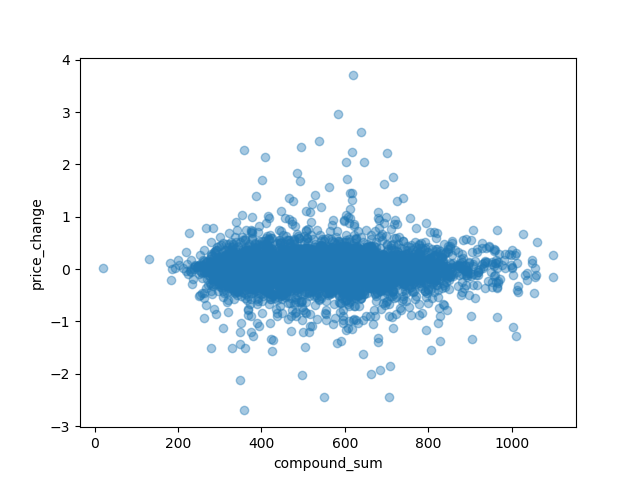
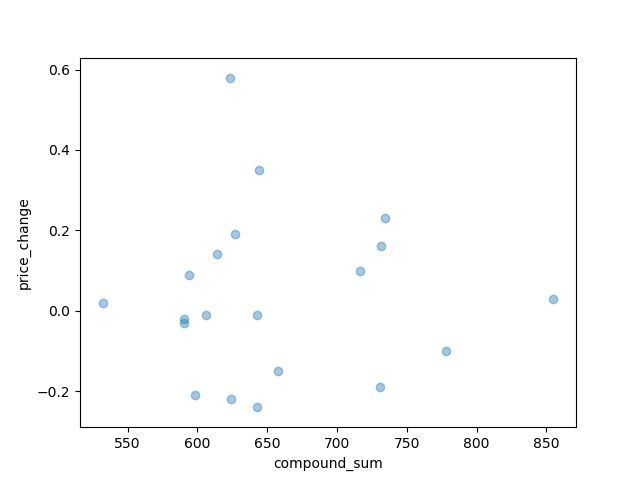
plot short periods of time

diff --git a/src/visualization/price_tweet_volume.py b/src/visualization/price_tweet_volume.py
@@ -3,6 +3,7 @@ import pandas as pd
 import numpy as np
 import matplotlib.dates as mdates
 from sklearn.preprocessing import MinMaxScaler
+from datetime import datetime, timedelta
 
 scaler = MinMaxScaler()
 timeframe = '15min'
@@ -10,19 +11,29 @@ timeframe = '15min'
 # Load dataset
 data_filename = 'data/processed/tweets_prices_'+ timeframe +'.csv'
 df = pd.read_csv(data_filename, index_col=0)
+df.index = pd.DatetimeIndex(df.index)
 df[['close', 'tweet_count']] = scaler.fit_transform(df[['close', 'tweet_count']])
 
 fig, ax = plt.subplots()
-df.index = pd.DatetimeIndex(df.index)
 
 # Selected period of time
 start_date = '27/04/2018 00:00:00'
-end_date = '30/04/2018 00:00:00'
+end_date = '28/05/2018 01:00:00'
 df = df.loc[(df.index > start_date) & (df.index <= end_date)]
-plt.plot(df.index, df['close'])
-plt.plot(df.index, df['tweet_count'], c='g')
-plt.ylabel('Price')
+print(df.shape)
+# Remove time of day seasonality
+day = int((24 * 60) / 15)
+diff = list()
+i = 0
+for count in df['tweet_count']:
+  value = df['tweet_count'][i] -  df['tweet_count'][i-day]
+  diff.append(value) 
+  i += 1
+
+plt.plot(df.index, df['close'], label='Price')
+plt.plot(df.index, diff, c='g', label='Tweets volume')
 plt.xlabel('Date')
+plt.legend()
 
 ax.xaxis.set_major_locator(mdates.DayLocator(interval=1))
 ax.xaxis.set_minor_locator(mdates.HourLocator(interval=1))

diff --git a/src/visualization/explore.py b/src/visualization/explore.py
@@ -8,6 +8,11 @@ timeframe = '15min' # todo: make timeframe global variable
 
 input_filename = 'data/processed/tweets_prices_'+ timeframe +'.csv'
 df = pd.read_csv(input_filename, index_col=0)
+df.index = pd.DatetimeIndex(df.index)
+# Selected period of time
+start_date = '28/05/2018 10:00:00'
+end_date = '28/05/2018 15:00:00'
+df = df.loc[(df.index > start_date) & (df.index <= end_date)]
 
 # Scatter feature relation to target label
 features = ['followers_positive', 'compound_sum', 'tweet_count']
